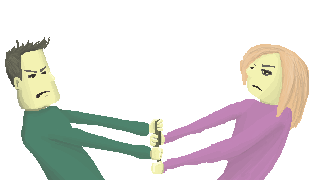
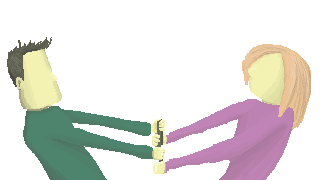
faces and breaks in lollipop

diff --git a/src/gamestates/lollipop.c b/src/gamestates/lollipop.c
@@ -97,6 +97,24 @@ void Gamestate_Logic(struct Game *game, struct RocketsResources* data) {
 
     }
 
+    int newstate = 0;
+    if (data->currentpos < -0.05) {
+        newstate = -1;
+    } else if (data->currentpos > 0.05) {
+        newstate = 1;
+    }
+
+    if (data->oldstate != newstate) {
+        if (newstate == 0) {
+            SelectSpritesheet(game, data->faces, "center");
+        } else if (newstate == 1) {
+            SelectSpritesheet(game, data->faces, "right");
+        } else {
+            SelectSpritesheet(game, data->faces, "left");
+        }
+        data->oldstate = newstate;
+    }
+
     data->counter++;
     data->spawncounter++;
 
@@ -119,8 +137,15 @@ void Gamestate_Draw(struct Game *game, struct RocketsResources* data) {
     }
 
     if ((!data->lost) && (!data->won)) {
-        al_draw_rotated_bitmap(data->earth2, 158, 140, 158, 140, data->currentpos, 0);
+        if (data->counter / (float)data->timelimit < 0.5) {
+            al_draw_rotated_bitmap(data->earth2, 158, 140, 158, 140, data->currentpos, 0);
+        } else if (data->counter / (float)data->timelimit < 0.8) {
+            al_draw_rotated_bitmap(data->earth3, 158, 140, 158, 140, data->currentpos, 0);
+        } else {
+            al_draw_rotated_bitmap(data->earth4, 158, 140, 158, 140, data->currentpos, 0);
+        }
         al_draw_bitmap(data->earth, 0, 0, 0);
+        DrawCharacter(game, data->faces, al_map_rgb(255,255,255), 0);
 
         //DrawCharacter(game, data->cursor, al_map_rgb(255,255,255), 0);
     }
@@ -172,6 +197,10 @@ void Gamestate_Start(struct Game *game, struct RocketsResources* data) {
 
     SetCharacterPosition(game, data->riot, 0, 0, 0);
     SelectSpritesheet(game, data->riot, "win");
+    SelectSpritesheet(game, data->faces, "center");
+    SetCharacterPosition(game, data->faces, 0, 0, 0);
+
+    data->oldstate = 0;
 
     data->counter = 0;
 
@@ -203,6 +232,8 @@ void* Gamestate_Load(struct Game *game, void (*progress)(struct Game*)) {
 
     data->earth = al_load_bitmap( GetDataFilePath(game, "lollipop/peoples.png"));
     data->earth2 = al_load_bitmap( GetDataFilePath(game, "lollipop/lollipop.png"));
+    data->earth3 = al_load_bitmap( GetDataFilePath(game, "lollipop/lollipop2.png"));
+    data->earth4 = al_load_bitmap( GetDataFilePath(game, "lollipop/lollipop3.png"));
 
     data->clouds = al_load_bitmap( GetDataFilePath(game, "lollipop/przegrywdziew.png"));
     data->combined = al_load_bitmap( GetDataFilePath(game, "lollipop/przegrywchop.png"));
@@ -232,6 +263,13 @@ void* Gamestate_Load(struct Game *game, void (*progress)(struct Game*)) {
     LoadSpritesheets(game, data->riot);
     (*progress)(game);
 
+    data->faces = CreateCharacter(game, "faces");
+    RegisterSpritesheet(game, data->faces, "left");
+    RegisterSpritesheet(game, data->faces, "center");
+    RegisterSpritesheet(game, data->faces, "right");
+    LoadSpritesheets(game, data->faces);
+    (*progress)(game);
+
     data->pixelator = al_create_bitmap(320, 180);
     al_set_target_bitmap(data->pixelator);
     al_clear_to_color(al_map_rgb(0, 0, 0));
@@ -248,12 +286,16 @@ void Gamestate_Unload(struct Game *game, struct RocketsResources* data) {
     al_destroy_bitmap(data->bg);
     al_destroy_bitmap(data->earth);
     al_destroy_bitmap(data->earth2);
+    al_destroy_bitmap(data->earth3);
+    al_destroy_bitmap(data->earth4);
     al_destroy_bitmap(data->clouds);
     al_destroy_bitmap(data->combined);
     al_destroy_bitmap(data->pixelator);
     al_destroy_sample_instance(data->boom_sound);
     al_destroy_sample(data->boom_sample);
-    // TODO: DestroyCharacters
+    DestroyCharacter(game, data->faces);
+    DestroyCharacter(game, data->riot);
+    // TODO: Destroy all the stuff
     free(data);
 }
 

diff --git a/src/gamestates/lollipop.h b/src/gamestates/lollipop.h
@@ -21,8 +21,8 @@
 
 struct RocketsResources {
         ALLEGRO_FONT *font;
-        ALLEGRO_BITMAP *bg, *earth, *earth2, *pixelator, *combined, *clouds;
-        struct Character *riot;
+        ALLEGRO_BITMAP *bg, *earth, *earth2, *earth3, *earth4, *pixelator, *combined, *clouds;
+        struct Character *riot, *faces;
 
         int counter, hearts;
 
@@ -30,6 +30,8 @@ struct RocketsResources {
         ALLEGRO_SAMPLE_INSTANCE *boom_sound, *rainbow_sound, *jump_sound;
 
         bool lost, won;
+
+        int oldstate;
 
         int timelimit, spawnspeed, currentspawn, spawncounter;
 
